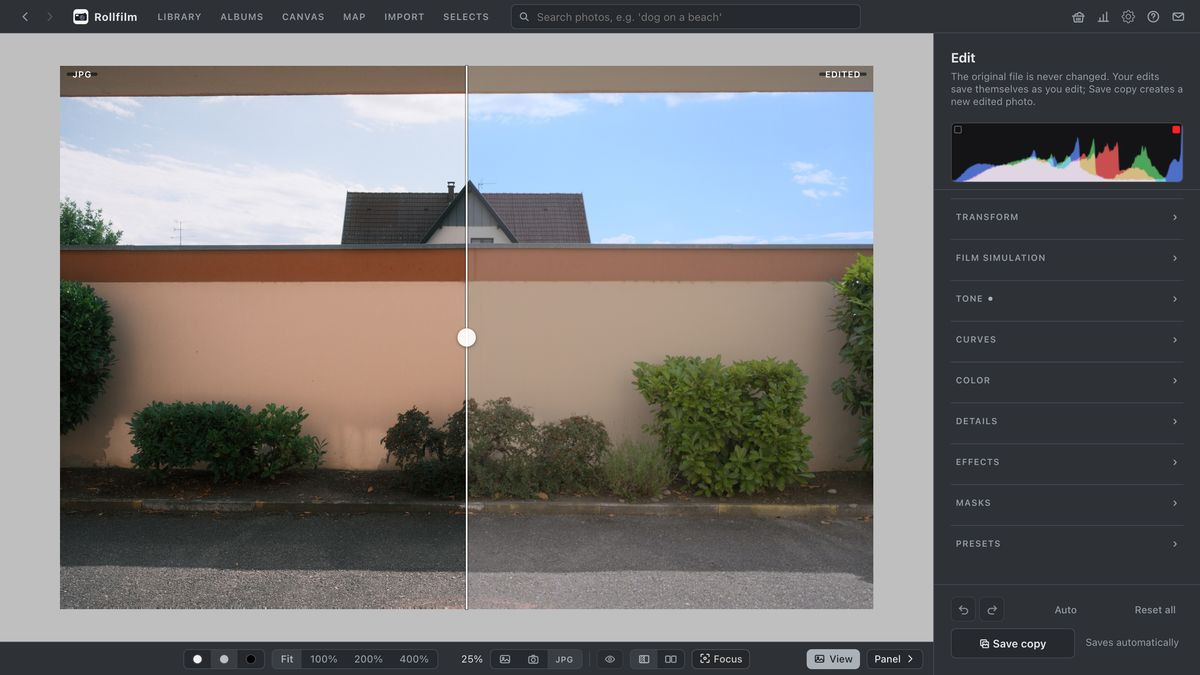
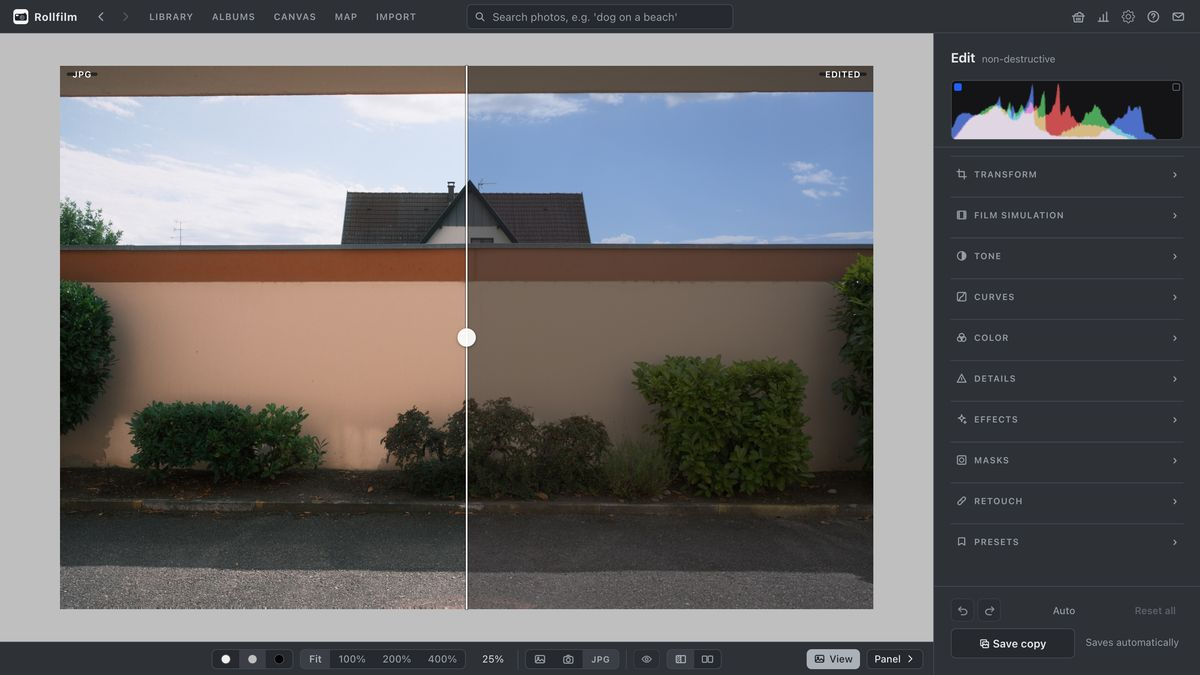
README: every screenshot retaken on 0.1.93 with three new ones (right-click menu, camera filters, retouch), the editor is no longer called experimental, and the text knows retouch, masks that combine, the camera chip, marquee selection, export's long edge, the Mac menu bar and the task dock; 750+ te

diff --git a/README.md b/README.md
@@ -34,8 +34,8 @@ non-destructively, print what you made.<br>
 
 Your photos stay on your own machine. Rollfilm copies them into a managed library, makes them searchable with natural language, and can optionally mirror your library to an existing Immich server.
 
-> **Project status: work in progress.**
-> An early but already very usable release. The core — import pipeline, library organization, semantic search, and especially the Immich integration — works well and is used daily. The built-in photo editor is experimental and should be seen as a fun extra rather than a finished feature (see [Photo editor](#photo-editor-experimental)).
+> **Project status: in active development.**
+> Import, library, search, the editor and the Immich sync are all used daily on a real library. New releases come often; the [changelog](https://github.com/pasqualkreher/Rollfilm/releases) says what changed. See [Photo editor](#photo-editor) for what the editor does.
 
 ## Why Rollfilm
 
@@ -53,7 +53,7 @@ Your photos stay on your own machine. Rollfilm copies them into a managed librar
 | Rollfilm is a good fit if you… | Look elsewhere if you… |
 | :--- | :--- |
 | shoot RAW+JPEG and want to cull straight off the card | need multiple users, a web UI or mobile access |
-| want natural-language search that never leaves your machine | want a finished, Lightroom-class editor today |
+| want natural-language search that never leaves your machine | need Lightroom's ecosystem: mobile app, cloud sync, plug-ins |
 | run Immich and want a local library feeding it | need a code-signed, commercially supported app |
 | like keeping full control over your files on disk | are looking for a cloud service |
 
@@ -66,12 +66,14 @@ More on [rollfilm.org](https://rollfilm.org/#gallery).
 | <img src="docs/screenshots/search.jpg" alt="Semantic search" width="420"><br>**Semantic search**: describe what you remember | <img src="docs/screenshots/map.jpg" alt="Map view" width="420"><br>**Map view**: every geotagged photo |
 | <img src="docs/screenshots/import-lighttable.jpg" alt="Import light table" width="420"><br>**Import review**: stage, compare, pick, with the camera settings beside the photo | <img src="docs/screenshots/import-start.jpg" alt="New import session dialog" width="420"><br>**Import start**: copy the card or leave the photos where they are |
 | <img src="docs/screenshots/import-sessions.jpg" alt="Open import sessions" width="420"><br>**Import sessions**: an import stays open until you end it, pull the card and come back later | <img src="docs/screenshots/immich-sync.jpg" alt="Immich sync modes" width="420"><br>**Immich sync**: your library, mirrored |
-| <img src="docs/screenshots/edit-masks.jpg" alt="Photo editor with a mask" width="420"><br>**Editor**: non-destructive, with masks that find the sky by themselves | <img src="docs/screenshots/edit-compare.jpg" alt="Comparing an edit against the original" width="420"><br>**Compare**: split by a draggable line, or side by side |
-| <img src="docs/screenshots/edit-film.jpg" alt="Film simulation list in the editor" width="420"><br>**Film simulations**: over a hundred looks over your own photo | <img src="docs/screenshots/edit-camera-jpg.jpg" alt="A RAW edit compared with the camera JPG" width="420"><br>**Camera JPG**: your RAW edit against the JPG the camera made |
-| <img src="docs/screenshots/edit-lens.jpg" alt="Lens correction in the editor" width="420"><br>**Lens correction**: distortion and vignetting from the lens data in the RAW | <img src="docs/screenshots/edit-nr.jpg" alt="Noise reduction at 200 percent" width="420"><br>**Noise reduction**: ISO 12800 at 200%, original left, cleaned right |
-| <img src="docs/screenshots/edit-wb.jpg" alt="White balance controls" width="420"><br>**White balance**: Kelvin, tint and the usual lights one click away | <img src="docs/screenshots/edit-presets.jpg" alt="Preset list in the editor" width="420"><br>**Presets**: save a look once, apply it with one click |
-| <img src="docs/screenshots/canvas.jpg" alt="Canvas editor with photos laid out on a page" width="420"><br>**Canvas**: lay photos out on a page, print or export it | <img src="docs/screenshots/canvas-edit.jpg" alt="Canvas with the photo editor docked beside the page" width="420"><br>**Canvas edit**: edit a photo right on the page, the original stays untouched |
-| <img src="docs/screenshots/albums-wide.jpg" alt="Albums page" width="420"><br>**Albums**: countries, years and months, plus your own | <img src="docs/screenshots/stats.jpg" alt="Library statistics" width="420"><br>**Statistics**: the gear you actually use |
+| <img src="docs/screenshots/context-menu.jpg" alt="Right-click menu over a selection of three photos" width="420"><br>**Right-click**: everything the selection bar does, for three photos at once | <img src="docs/screenshots/camera-filters.jpg" alt="Camera filter popover with make, lens, ISO, aperture and shutter sliders" width="420"><br>**Camera filters**: make, body, lens, focal length, ISO, aperture, shutter speed |
+| <img src="docs/screenshots/edit-masks.jpg" alt="Photo editor with a mask" width="420"><br>**Editor**: non-destructive, with masks that find the sky by themselves and add, subtract or intersect | <img src="docs/screenshots/edit-retouch.jpg" alt="Retouch section with heal and clone spots" width="420"><br>**Retouch**: heal specks and clone patches on the raw picture |
+| <img src="docs/screenshots/edit-compare.jpg" alt="Comparing an edit against the original" width="420"><br>**Compare**: split by a draggable line, or side by side | <img src="docs/screenshots/edit-film.jpg" alt="Film simulation list in the editor" width="420"><br>**Film looks**: twenty Fujifilm simulations and 112 film stocks over your own photo |
+| <img src="docs/screenshots/edit-camera-jpg.jpg" alt="A RAW edit compared with the camera JPG" width="420"><br>**Camera JPG**: your RAW edit against the JPG the camera made | <img src="docs/screenshots/edit-lens.jpg" alt="Lens correction in the editor" width="420"><br>**Lens correction**: distortion and vignetting from the lens data in the RAW |
+| <img src="docs/screenshots/edit-nr.jpg" alt="Noise reduction at 200 percent" width="420"><br>**Noise reduction**: ISO 12800 at 200%, original left, cleaned right | <img src="docs/screenshots/edit-wb.jpg" alt="White balance controls" width="420"><br>**White balance**: Kelvin, tint and the usual lights one click away |
+| <img src="docs/screenshots/edit-presets.jpg" alt="Preset list in the editor" width="420"><br>**Presets**: save a look once, apply it with one click | <img src="docs/screenshots/canvas.jpg" alt="Canvas editor with photos laid out on a page" width="420"><br>**Canvas**: lay photos out on a page, print or export it |
+| <img src="docs/screenshots/canvas-edit.jpg" alt="Canvas with the photo editor docked beside the page" width="420"><br>**Canvas edit**: edit a photo right on the page, the original stays untouched | <img src="docs/screenshots/albums-wide.jpg" alt="Albums page" width="420"><br>**Albums**: countries, years and months, plus your own |
+| <img src="docs/screenshots/stats.jpg" alt="Library statistics" width="420"><br>**Statistics**: the gear you actually use | |
 
 Three quiet skins, each in light and dark, with a switch that can follow the system:
 
@@ -81,14 +83,15 @@ Three quiet skins, each in light and dark, with a switch that can follow the sys
 
 | | Highlights |
 | :--- | :--- |
-| **Import** | Staged import wizard with a light table, one start dialog (copy the card or leave the photos in place, with an optional backup folder), sessions that stay open until you end them, RAW+JPEG pairing, byte-identical duplicate detection, EXIF and lens data, reverse geocoding |
-| **Organize** | Albums, smart albums, hierarchical tags (`Travel/Italy/Rome`) with bulk tagging, star ratings, color labels, picks, per-photo notes, trash with retention, a right-click menu on every photo, chips that say which albums and canvases a photo is in |
+| **Import** | Staged import wizard with a light table, one start dialog (copy the card or leave the photos in place, the import folder kept as a backup by default) and an *Import settings…* dialog that answers it once for all, sessions that stay open until you end them, RAW+JPEG pairing, byte-identical duplicate detection, EXIF and lens data, reverse geocoding |
+| **Organize** | Albums, smart albums, hierarchical tags (`Travel/Italy/Rome`) with bulk tagging, star ratings, color labels, per-photo notes, trash with retention, marquee and shift-click selection like the Finder, a right-click menu with everything the selection bar offers, chips that say which albums and canvases a photo is in |
 | **Portable** | Stars, labels, keywords and captions from Lightroom, Bridge, darktable or digiKam come in on import, from the file or its `.xmp` sidecar; optional sidecars beside your originals carry them out again; the tag tree moves as a keyword list |
-| **Search** | Local semantic search, image-to-image similarity, gear filters that cross-filter each other, map, exact-scrolling timeline, statistics |
+| **Search** | Local semantic search, image-to-image similarity, a Camera chip with make, body, lens, focal length, ISO, aperture and shutter-speed filters that cross-filter each other, map, exact-scrolling timeline, cross-filtered statistics |
 | **Immich** | Three sync modes, background reconciliation every 60 s, album mirroring, durable deletion queue, optional RAW upload |
-| **Edit** *(experimental)* | Non-destructive, backend-rendered, lens correction from the camera's own data, twenty film simulations and 112 film stocks, masks with local AI subject selection, tone curves on the histogram, Kelvin white balance, luminance and color noise reduction, presets, auto develop learned from your own edits, virtual copies |
+| **Edit** | Non-destructive, backend-rendered, lens correction from the camera's own data, twenty film simulations and 112 film stocks, retouch with heal and clone, masks with local AI subject selection that add, subtract or intersect and carry their own curve, mixer and grading, tone curves on the histogram, Kelvin white balance, luminance and color noise reduction, presets, auto develop learned from your own edits, virtual copies, export as JPEG, 16-bit TIFF or the original with a long-edge slider up past 8K |
 | **Canvas** | Pages or one free sheet, A4/A3/Letter/square or any size in mm, drag, crop-in-frame, rotate, snap, captions, the editor docked beside the page, print view and lossless PDF export |
 | **Safety** | Originals never modified, renames survive Finder, backup and restore as one zip, external folders mounted read-only |
+| **Mac-native** | A real menu bar (Settings ⌘, Import ⇧⌘I, Find ⌘F, Focus ⇧⌘F, ⌘W hides the window), native cut/copy/paste, the window comes back where it was, Dock progress, one task dock in the title bar that lists everything running and stops what can be stopped |
 
 <details>
 <summary><b>Library &amp; import — full list</b></summary>
@@ -105,11 +108,11 @@ Three quiet skins, each in light and dark, with a switch that can follow the sys
 - **What the files already say comes along** — stars, colour labels, keywords (tree and all) and captions that Lightroom, Bridge, darktable or digiKam wrote into a photo, or into an `.xmp` sidecar beside it, are read on import; a sidecar wins over the file. Off in Settings if you'd rather start clean
 - **Duplicate detection** during import — byte-identical files only, so a burst or a bracketed set comes in complete
 - **Import a second library** — take a small drive travelling, cull the trip on it, and fold it into your main library at home *with* the stars, colour labels, edits, tags and albums you gave the photos on the road
-- Albums, smart albums, tags (with bulk tagging), star ratings, color labels, and a pick/reject workflow
+- Albums, smart albums, tags (with bulk tagging), star ratings, color labels, and culling from the keyboard: the arrow keys walk a selected photo through the grid
 - **Tags with a tree** — `Travel/Italy/Rome` files Rome under Italy under Travel; the filter shows the tree and a tick on Travel finds everything under it; rename a parent and the branch follows. The tree exports and imports as the keyword list Lightroom, Bridge and digiKam use
 - **XMP sidecars, if you want them** — a switch in Settings keeps an `.xmp` beside each photo in the library with its stars, label, tags and note, so every other program reads them. The photo itself is never written to, and whatever another program keeps in the same sidecar stays
-- **Select without a mode** — Cmd/Ctrl-click or Shift-click the first photo and checkboxes appear on every tile; Cmd/Ctrl+A takes everything, Esc clears, E opens a single picked photo in the editor. A plain click still opens the photo
-- **Right-click any photo** — export, save a copy, or show the file in Finder / Explorer; on a selected photo the action applies to the whole selection
+- **Select without a mode** — Cmd/Ctrl-click or Shift-click the first photo and checkboxes appear on every tile; drag on empty grid ground to draw a marquee, Shift-click extends like the Finder, Cmd/Ctrl+A takes everything, Esc clears, E opens a single picked photo in the editor. A plain click still opens the photo
+- **Right-click any photo** — everything the selection bar offers: rating, label, albums, canvas, tags, apply an edit with or without a copy, reset, Immich, export, save a copy, show the file in Finder / Explorer, trash and restore; on a selected photo the action applies to the whole selection. The menus take the keyboard: arrows, Home/End, type-ahead, submenus
 - **Export the way it is needed** — JPEG, 16-bit TIFF or the original files; camera data, stars and tags written into the file (or left out, with or without the location); file names from a pattern like `{date}_{seq}`; straight into a folder or as a download; output sharpening and a text watermark; and presets that keep a whole set of choices under a name
 - **Where a photo lives** — album and canvas chips beside each photo and on the grid's hover card, each a link into that album or canvas, with an × to take the photo out
 - **Rename photos from the app** — the file on disk is renamed with them, the RAW/JPEG partner follows to the same name, and the photo keeps its stars, tags, albums, edits and cached previews
@@ -125,7 +128,7 @@ Three quiet skins, each in light and dark, with a switch that can follow the sys
 
 - **Semantic search** — describe what you're looking for in natural language ("sunset at the beach", "dog in the snow"). Powered by CLIP embeddings stored in SQLite via `sqlite-vec`, fully local, no cloud API
 - Image-to-image similarity search
-- **Gear-aware filters** — narrow the library by camera, lens or a focal-length range slider; the filter options cross-filter each other (pick a camera and the lens list shrinks to what that camera actually shot), and the filter bar can be **pinned open** so it stays put while you cull
+- **Gear-aware filters** — a Camera chip narrows the library by make, body, lens, and by focal length, ISO, aperture and shutter speed on sliders over the library's own stops; the filter options cross-filter each other (pick a camera and the lens list shrinks to what that camera actually shot), and the filter bar can be **pinned open** so it stays put while you cull
 - **Smart albums** with the same filter bar as the library — JPEG/RAW, rating, colour label, tags, date range
 - **Map view** (Leaflet) of all geotagged photos
 - **A timeline that stays out of the way at any size** — the whole library is laid out up front, so the scrollbar is exact from the first frame and the date scrubber on the right lands anywhere in it instantly; only the tiles near the viewport are ever mounted
@@ -177,11 +180,11 @@ A free design surface: place photos where you want them instead of where the gri
 
 </details>
 
-<a name="photo-editor-experimental"></a>
+<a name="photo-editor"></a>
 <details>
-<summary><b>Photo editor (experimental) — full list</b></summary>
+<summary><b>Photo editor — full list</b></summary>
 
-A non-destructive editor is included, but consider it a gimmick for now — it's fun to play with, not a Lightroom replacement.
+A non-destructive RAW and JPEG editor, rendered by the app's own backend and used for every photo in the author's library.
 
 - All rendering happens **in the app's backend**, so the live preview is pixel-identical to the exported result
 - **Built to keep up** — while a slider is being dragged, only the pixels your screen can actually show are rendered (zoomed in, only the visible tile), so editing stays fluid even on 40MP RAWs
@@ -193,11 +196,13 @@ A non-destructive editor is included, but consider it a gimmick for now — it's
 - **Noise reduction** in three sliders: luminance, luminance detail and colour
 - Exposure/contrast/highlights/shadows, white balance in Kelvin with presets for daylight, cloudy, shade, tungsten and fluorescent, HSL color mixer, color grading wheels, crop/rotate/perspective, and effects like grain, vignette, clarity, film-style diffusion and a white matte frame
 - **Tone curves drawn over the photo's own histogram**, with a targeted picker: point at something in the image and drag to move the curve where that tone actually lives
-- **Masks** — radial, linear, brush, luminance and color, plus **AI subject selection** (sky, water, greenery, people, buildings, ground) run locally with SegFormer. Point at a mask in the list and it marks what it covers
-- **Compare against the original, a snapshot or the camera's JPG.** Split by a divider you drag across the photo, or the two side by side. A RAW shot together with a JPG can be held against that JPG. On a RAW the original half is shown with the library's auto-exposure, so the comparison isn't just "the edit is brighter"
+- **Masks** — radial, linear, brush, luminance and color, plus **AI subject selection** (sky, water, greenery, people, buildings, ground) run locally with SegFormer. Point at a mask in the list and it marks what it covers. Shapes add to, subtract from or intersect a selection in list order, a linear mask gets a feather, every mask carries its own curve, color mixer and color grading, and masks can be renamed, reordered and duplicated
+- **Retouch** — heal specks and clone patches on the raw picture, before any tone or colour work; heal picks its own source, `[` and `]` size the spot, H hides the circles, and spots move with the crop
+- **Compare against the original, a snapshot or the camera's JPG.** Split by a divider you drag across the photo, or the two side by side, in the editor and in the photo view. A RAW shot together with a JPG can be held against that JPG. On a RAW the original half is shown with the library's auto-exposure, so the comparison isn't just "the edit is brighter"
 - **Presets.** Save a look, apply it from a list with one click, to one photo or a whole selection, and export or import presets as a file
 - **Working resolution.** The editor preview renders at 100%, 70% or 50%, a setting for slower machines
-- **Physical and virtual copies** — *Save copy* bakes an edit into a new file in the library; a virtual copy is a second, independently editable version of the same file that costs no disk space
+- **Physical and virtual copies** — *Save copy* bakes an edit into a new file in the library, and from the grid *Apply … and save copy* runs over a whole selection as one background job you can stop between photos; a virtual copy is a second, independently editable version of the same file that costs no disk space
+- **Export** — JPEG, 16-bit TIFF or the original file, the long edge on a slider up past 8K with the common sizes as presets, camera data, stars and tags written in or left out, file names from a pattern, output sharpening, a watermark, and named export presets; the last full-resolution render is kept once, so an export right after an edit only encodes
 - **Auto develop** — an optional "Auto" button that suggests develop settings *learned from your own edits*: a local CLIP k-nearest-neighbor recommender finds the photos you've already edited that look most like the one you're working on and blends their settings. No training step, no cloud — every edit you save immediately makes the next suggestion better. Works on a single photo or a whole selection at once
 
 </details>
@@ -286,7 +291,7 @@ three-line function exists, which is how the reasoning survives between sessions
 
 What that means in practice:
 
-- **It's tested where it counts.** 550+ backend tests cover the paths that could
+- **It's tested where it counts.** 750+ backend tests cover the paths that could
   lose your photos or your edits: import, trash, pairing, library sync. Your
   originals are never modified; edits live in the database beside them.
 - **It also means one person's blind spots.** Rollfilm is used daily on one
@@ -332,7 +337,7 @@ cd backend
 python -m venv .venv && source .venv/bin/activate
 pip install -e ".[dev]"
 python run_server.py   # runs Alembic migrations, then starts the API on localhost
-pytest                 # 550+ tests, in-memory database
+pytest                 # 750+ tests, in-memory database
 ```
 
 ### Configuration
@@ -362,7 +367,6 @@ Notable design decisions:
 
 ## Known limitations
 
-- The photo editor is experimental (see above)
 - **Single user, no accounts** — the backend binds to localhost and only the app itself holds the per-launch key to it. There is no login, no accounts and no server mode, and none is planned
 - **Not code-signed or notarized** — hence the one-time Gatekeeper and SmartScreen steps above. A matter of certificate cost, not of anything being wrong with the build
 - The UI is only really exercised on macOS; Windows and Linux get less day-to-day use
